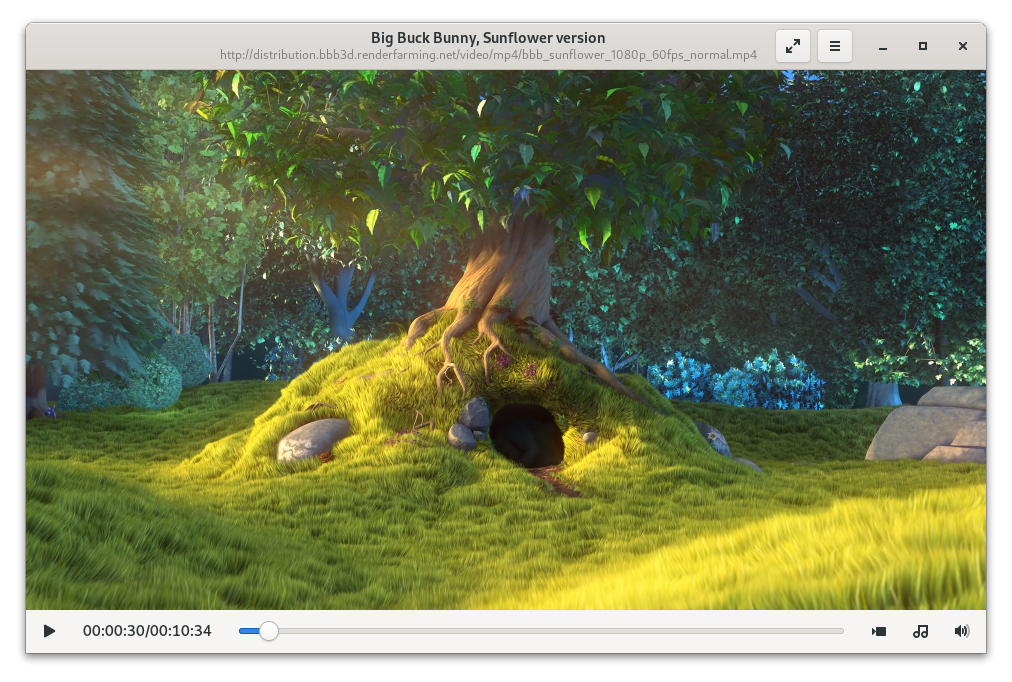
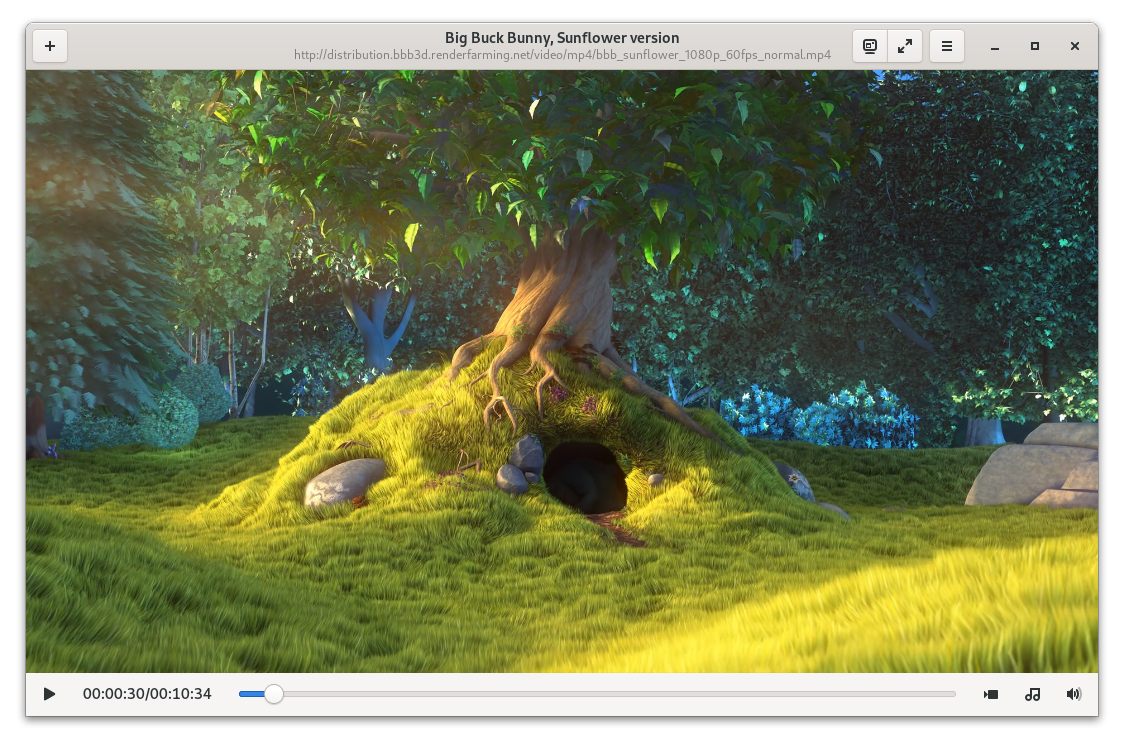
Update screenshots

Changed region(s): [[0.0, 0.0308, 0.9802, 0.9853], [0.7658, 0.3079, 0.7964, 0.3387]]

diff --git a/README.md b/README.md
@@ -11,6 +11,11 @@ A GNOME media player built using [GJS](https://gitlab.gnome.org/GNOME/gjs) and p
   <b>Fullscreen Mode</b>
 </p>
 
+<p align="center">
+<img src="https://github.com/Rafostar/clapper/raw/master/media/screenshot-floating-mode.png"><br>
+  <b>Floating Mode</b>
+</p>
+
 ### WORK IN PROGRESS
 This is still early WIP. Many features are not implemented yet and quite a few are still unstable.
 
